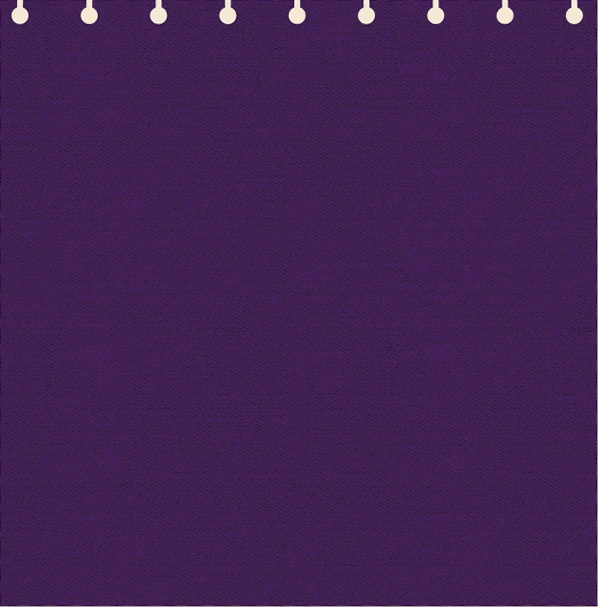
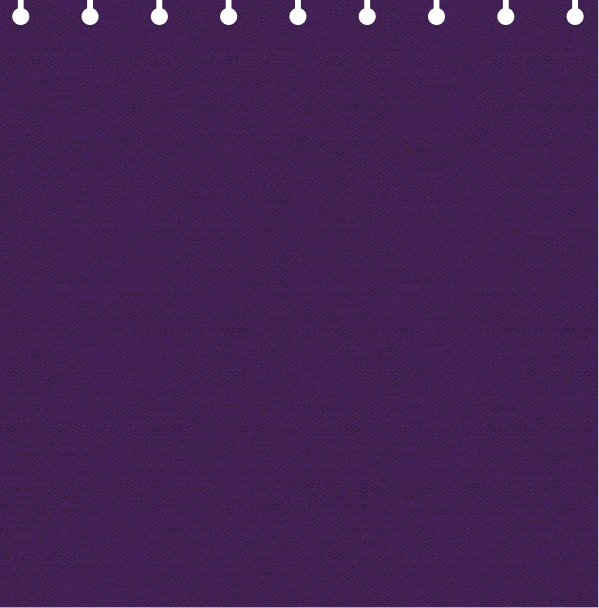
changes for section in managed launch

diff --git a/modules/managed-launch/components/library/journey-library.tsx b/modules/managed-launch/components/library/journey-library.tsx
@@ -5,87 +5,99 @@ import { SectionTitle } from "@/modules/landing/components/shared/section-title"
 import noteAubergine from "../../assets/library/note-aubergine.webp";
 import noteGreen from "../../assets/library/note-green.webp";
 import noteMaroon from "../../assets/library/note-maroon.webp";
-import ribbonGiftFinder from "../../assets/library/ribbon-gift-finder.svg";
-import ribbonSizeFit from "../../assets/library/ribbon-size-fit.svg";
-import ribbonStyleMatch from "../../assets/library/ribbon-style-match.svg";
-import ribbonSupport from "../../assets/library/ribbon-support.svg";
-import { type NoteTone, libraryJourneys } from "../../config/launch";
+import noteParchment from "../../assets/library/note-parchment.webp";
+import ribbon1 from "../../assets/library/ribbon-1.svg";
+import ribbon2 from "../../assets/library/ribbon-2.svg";
+import ribbon3 from "../../assets/library/ribbon-3.svg";
+import ribbon4 from "../../assets/library/ribbon-4.svg";
+import ribbon5 from "../../assets/library/ribbon-5.svg";
+import ribbon6 from "../../assets/library/ribbon-6.svg";
+import ribbon7 from "../../assets/library/ribbon-7.svg";
+import { libraryJourneys } from "../../config/launch";
 
 /** Figma's punched note (its "Subtract"), 299.117 × 303.674, exported at 2x, one per livery. */
-const notes: Record<NoteTone, StaticImageData> = { green: noteGreen, maroon: noteMaroon, aubergine: noteAubergine };
 const NOTE_W = 299.117;
 const NOTE_H = 303.674;
 
-/**
- * Each journey's title ribbon (Figma "Rectangle 2095589201"), 0.12px in and 31.85px down its note, in the order of
- * libraryJourneys; Support's is longer for its longer title.
- */
-const ribbons: { src: StaticImageData; w: number; h: number }[] = [
-  { src: ribbonGiftFinder, w: 147.543, h: 41.7316 },
-  { src: ribbonStyleMatch, w: 147.543, h: 41.7316 },
-  { src: ribbonSizeFit, w: 147.543, h: 41.7316 },
-  { src: ribbonSupport, w: 234.715, h: 44.9133 },
-];
+/** The ink on each livery: cream on the dark notes, near-black on the parchment one. */
+const light = "text-[#fff9ea]";
+const dark = "text-[#070707]";
+
+type Card = {
+  /** libraryJourneys index: 0 Gift finder, 1 Style match, 2 Size and fit. */
+  journey: number;
+  note: StaticImageData;
+  /** The note's copy colour. */
+  ink: string;
+  /** The title ribbon (Figma "Rectangle 2095589201" and on), 0.12px in, `top` down its note, and its title colour. */
+  ribbon: { src: StaticImageData; w: number; h: number; top: number };
+  title: string;
+  /** Top-left corner on the strip (356px down the panel) and turn about its centre. */
+  at: [number, number];
+  angle: number;
+};
 
 /**
- * Where Figma lays the notes (3991:203559) on the 1392px panel, measured from the cards' strip (356px down the panel):
- * which journey (libraryJourneys index), its top-left corner and its turn (about its centre). Four across, then three
- * more below (Size and fit, Style match, Gift finder again), each turned its own way.
+ * Figma 4060:25055: seven notes on the 1392px panel, four across then three below, each its own livery (green,
+ * parchment, aubergine, maroon), ribbon colour and turn.
  */
-const layout: { journey: number; at: [number, number]; angle: number }[] = [
-  { journey: 0, at: [24.74, 20.61], angle: -3.2 },
-  { journey: 1, at: [374.05, 17.91], angle: 3.32 },
-  { journey: 2, at: [707.11, 21.03], angle: -2.16 },
-  { journey: 3, at: [1049.12, 27.88], angle: 5.82 },
-  { journey: 2, at: [128.06, 393.72], angle: 7.95 },
-  { journey: 1, at: [539.05, 386.92], angle: -7.07 },
-  { journey: 0, at: [975.74, 415.61], angle: -3.2 },
+const cards: Card[] = [
+  { journey: 0, note: noteGreen, ink: light, ribbon: { src: ribbon1, w: 136.626, h: 41.731, top: 31.85 }, title: "text-black", at: [104.74, 20.61], angle: -3.2 },
+  { journey: 1, note: noteParchment, ink: dark, ribbon: { src: ribbon2, w: 144.93, h: 41.731, top: 31.85 }, title: "text-[#faedd4]", at: [413.06, 6.76], angle: 3.15 },
+  { journey: 2, note: noteAubergine, ink: light, ribbon: { src: ribbon3, w: 137.023, h: 42.65, top: 30.93 }, title: "text-black", at: [707.11, 21.03], angle: -2.16 },
+  { journey: 1, note: noteParchment, ink: dark, ribbon: { src: ribbon4, w: 136.223, h: 42.727, top: 31.85 }, title: "text-[#faedd4]", at: [1011.87, 39.98], angle: 9.21 },
+  { journey: 2, note: noteMaroon, ink: light, ribbon: { src: ribbon5, w: 132.397, h: 41.731, top: 31.85 }, title: "text-black", at: [234.99, 316.19], angle: 7.04 },
+  { journey: 1, note: noteParchment, ink: dark, ribbon: { src: ribbon6, w: 138.212, h: 42.158, top: 31.42 }, title: "text-[#faedd4]", at: [569.06, 328.26], angle: -7.07 },
+  { journey: 0, note: noteGreen, ink: light, ribbon: { src: ribbon7, w: 133.29, h: 41.731, top: 31.85 }, title: "text-[#faedd4]", at: [905.74, 335.61], angle: -3.2 },
 ];
+
+/** Below 1200px, the three journeys once each (Gift finder, Style match, Size and fit), as the first row's notes. */
+const compactCards = [cards[0], cards[1], cards[2]];
 
 /** The cards' strip: the panel's 1392px width, from 356px down to the panel's foot at 1171px. */
 const STRIP_W = 1392;
 const STRIP_H = 1171 - 356;
 
 /**
- * A journey's note (Figma 3976:16646 and its siblings): the ribbon with its Crimson 22 title in #faedd4, and 93.08px
- * down, 18px in, the 270px line of Geist 16 in cream #fff9ea (its lead in Medium), turned `angle`.
+ * A journey's note: the ribbon with its Crimson 22 title, and 93.08px down, 18px in, the 270px line of Geist 16 (its
+ * lead in Medium) in the livery's ink, turned `angle`.
  */
-function JourneyNote({ index: i, angle, style, className = "" }: { index: number; angle: number; style?: CSSProperties; className?: string }) {
-  const journey = libraryJourneys[i];
-  const ribbon = ribbons[i];
+function JourneyNote({ card, style, className = "" }: { card: Card; style?: CSSProperties; className?: string }) {
+  const journey = libraryJourneys[card.journey];
+  const { ribbon } = card;
   return (
     <div
       role="listitem"
       className={`absolute ${className}`}
-      style={{ width: NOTE_W, height: NOTE_H, rotate: `${angle}deg`, ...style }}
+      style={{ width: NOTE_W, height: NOTE_H, rotate: `${card.angle}deg`, ...style }}
     >
-      <Image src={notes[journey.tone]} alt="" aria-hidden sizes="300px" className="pointer-events-none absolute inset-0 size-full max-w-none select-none" />
+      <Image src={card.note} alt="" aria-hidden sizes="300px" className="pointer-events-none absolute inset-0 size-full max-w-none select-none" />
       <Image
         src={ribbon.src}
         alt=""
         aria-hidden
-        className="absolute top-[31.85px] left-[0.12px] max-w-none"
-        style={{ width: ribbon.w, height: ribbon.h }}
+        className="absolute left-[0.12px] max-w-none"
+        style={{ top: ribbon.top, width: ribbon.w, height: ribbon.h }}
       />
-      <h3 className="absolute top-[38.94px] left-[19.93px] font-serif text-[22px] leading-[1.1] font-normal tracking-[-0.88px] whitespace-nowrap text-parchment">
+      <h3 className={`absolute top-[38.94px] left-[19.93px] font-serif text-[22px] leading-[1.0909] font-normal tracking-[-0.88px] whitespace-nowrap ${card.title}`}>
         {journey.title}
       </h3>
-      <p className="absolute top-[93.08px] left-[18.01px] w-[270.031px] font-sans text-base leading-6 tracking-[-0.32px] text-[#fff9ea]">
-        <span className="font-medium text-[#fff9ea]">{journey.lead}</span> {journey.body}
+      <p className={`absolute top-[93.08px] left-[18.01px] w-[270.031px] font-sans text-base leading-6 tracking-[-0.32px] ${card.ink}`}>
+        <span className="font-medium">{journey.lead}</span> {journey.body}
       </p>
     </div>
   );
 }
 
 /**
- * Figma "Section · Journey library (4x4)" (node 3991:203559): a 1171px sand panel between the page rails (a 0.5px
+ * Figma "Section · Journey library (4x4)" (node 4060:25055): a 1171px sand panel between the page rails (a 0.5px
  * black/25 hairline), the centred cream eyebrow 70px down, 24px over the two-line swash headline (1000px box) and 24px
- * under it an 820px line of Geist in ink muted. 29px below that, the journeys on punched notes in the liveries (green,
- * maroon, aubergine, green): four across, then Size and fit, Style match and Gift finder again below, each turned its
- * own way, all inside the panel.
+ * under it an 820px line of Geist in ink muted. 29px below that, seven punched notes in four liveries (green,
+ * parchment, aubergine, maroon), each with its own coloured ribbon: Gift finder, Style match, Size and fit, Style match
+ * across, then Size and fit, Style match and Gift finder below, each turned its own way, all inside the panel.
  *
  * From 1200px the notes are Figma's 1392px strip, scaled with the panel. Below that they'd shrink past reading, so
- * the four journeys sit in a grid at full size instead (two across from 768px, one on phones), each still turned.
+ * the three journeys sit in a grid at full size instead (two across from 768px, one on phones), each still turned.
  */
 export function JourneyLibrary() {
   return (
@@ -125,21 +137,21 @@ export function JourneyLibrary() {
             className="relative scale-to-container"
             style={{ "--fit-width": `${STRIP_W}px`, width: STRIP_W, height: STRIP_H } as CSSProperties}
           >
-            {layout.map(({ journey, at, angle }, i) => (
-              <JourneyNote key={i} index={journey} angle={angle} style={{ left: at[0], top: at[1] }} />
+            {cards.map((card, i) => (
+              <JourneyNote key={i} card={card} style={{ left: card.at[0], top: card.at[1] }} />
             ))}
           </div>
         </div>
 
-        {/* Below 1200px: the four journeys (the first row's notes) each in its own cell at full size, turned as in Figma. */}
+        {/* Below 1200px: the three journeys (the first row's notes) each in its own cell at full size, turned as in Figma. */}
         <div
           role="list"
           aria-label="Journeys"
           className="mx-auto grid w-fit grid-cols-1 justify-items-center gap-x-6 gap-y-10 px-4 pt-12 pb-16 md:grid-cols-2 min-[1200px]:hidden"
         >
-          {layout.slice(0, 4).map(({ journey, angle }) => (
-            <div key={journey} className="relative h-[340px] w-[330px] max-w-[calc(100vw-2*var(--frame-inset)-32px)]">
-              <JourneyNote index={journey} angle={angle} className="top-1/2 left-1/2" style={{ translate: "-50% -50%" }} />
+          {compactCards.map((card) => (
+            <div key={card.journey} className="relative h-[340px] w-[330px] max-w-[calc(100vw-2*var(--frame-inset)-32px)]">
+              <JourneyNote card={card} className="top-1/2 left-1/2" style={{ translate: "-50% -50%" }} />
             </div>
           ))}
         </div>
